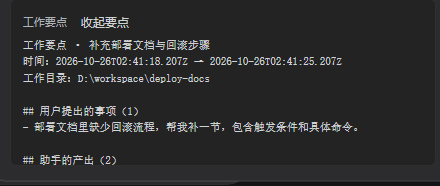
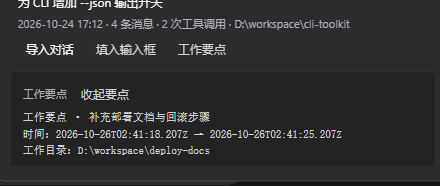
fix(ui): keep the panel directory line and rows intact on short windows; release 1.3.2

diff --git a/client/client.js b/client/client.js
@@ -165,7 +165,7 @@ if (!globalThis.__dshCodexHistoryClientExecuted) {
         zIndex: 1100,
         boxSizing: 'border-box',
         width: 'min(460px, calc(100vw - 24px))',
-        maxHeight: 'min(60vh, 520px)',
+        maxHeight: 'min(70vh, 560px)',
         display: 'flex',
         flexDirection: 'column',
         gap: '10px',
@@ -228,7 +228,9 @@ if (!globalThis.__dshCodexHistoryClientExecuted) {
         display: 'flex',
         flexDirection: 'column',
         gap: '2px',
-        flex: '1 1 auto',
+        // The list is the only part of the panel that may shrink; every other
+        // child keeps its natural height so nothing gets squeezed away.
+        flex: '1 1 0%',
         minHeight: 0,
       },
       item: {
@@ -239,6 +241,7 @@ if (!globalThis.__dshCodexHistoryClientExecuted) {
         borderRadius: 'var(--dsw-radius-sm, 6px)',
         background: 'transparent',
         border: 'none',
+        flexShrink: 0,
       },
       title: {
         color: 'var(--dsw-alias-label-primary, inherit)',
@@ -252,6 +255,7 @@ if (!globalThis.__dshCodexHistoryClientExecuted) {
         alignItems: 'center',
         gap: '6px',
         minWidth: 0,
+        flexShrink: 0,
       },
       badge: {
         flex: '0 0 auto',
@@ -269,13 +273,15 @@ if (!globalThis.__dshCodexHistoryClientExecuted) {
         overflow: 'hidden',
         textOverflow: 'ellipsis',
         whiteSpace: 'nowrap',
+        flexShrink: 0,
       },
       status: {
         color: 'var(--dsw-alias-label-tertiary, inherit)',
         fontSize: '11px',
+        flexShrink: 0,
       },
       worklog: {
-        maxHeight: '220px',
+        maxHeight: 'min(220px, 26vh)',
         overflowY: 'auto',
         display: 'flex',
         flexDirection: 'column',
@@ -284,6 +290,7 @@ if (!globalThis.__dshCodexHistoryClientExecuted) {
         borderRadius: 'var(--dsw-radius-sm, 6px)',
         background: 'var(--dsw-alias-bg-layer-1, transparent)',
         border: '1px solid var(--dsw-alias-border-l1, transparent)',
+        flexShrink: 0,
       },
       worklogText: {
         margin: 0,
@@ -293,7 +300,7 @@ if (!globalThis.__dshCodexHistoryClientExecuted) {
         whiteSpace: 'pre-wrap',
         wordBreak: 'break-word',
       },
-      error: { color: 'var(--dsw-alias-state-error-primary, #d33)', fontSize: '11px' },
+      error: { color: 'var(--dsw-alias-state-error-primary, #d33)', fontSize: '11px', flexShrink: 0 },
     }
 
     /** Hover and focus affordances the inline styles cannot express. */
@@ -488,6 +495,7 @@ if (!globalThis.__dshCodexHistoryClientExecuted) {
             'div',
             {
               style: styles.panel,
+              className: 'codex-history-panel',
               role: 'dialog',
               'aria-label': t('heading'),
               onClick: (event) => event.stopPropagation(),
@@ -561,7 +569,7 @@ if (!globalThis.__dshCodexHistoryClientExecuted) {
             ),
             h(
               'div',
-              { style: styles.list },
+              { style: styles.list, className: 'codex-history-list' },
               loading && h('div', { style: styles.status }, t('loading')),
               !loading && !available && h('div', { style: styles.error }, t('unavailable')),
               !loading && available && items.length === 0 && h('div', { style: styles.status }, t('empty')),
@@ -625,34 +633,34 @@ if (!globalThis.__dshCodexHistoryClientExecuted) {
                   ),
                 ),
               ),
-            ),
-            worklog
-              ? h(
-                  'div',
-                  { style: styles.worklog },
-                  h(
+              worklog
+                ? h(
                     'div',
-                    { style: styles.row },
-                    h('span', { style: styles.meta }, t('worklog')),
+                    { style: styles.worklog },
                     h(
-                      'button',
-                      {
-                        type: 'button',
-                        className: 'codex-history-ghost',
-                        style: styles.button,
-                        onClick: () => {
-                          setWorklog('')
-                          setWorklogFor('')
+                      'div',
+                      { style: styles.row },
+                      h('span', { style: styles.meta }, t('worklog')),
+                      h(
+                        'button',
+                        {
+                          type: 'button',
+                          className: 'codex-history-ghost',
+                          style: styles.button,
+                          onClick: () => {
+                            setWorklog('')
+                            setWorklogFor('')
+                          },
                         },
-                      },
-                      t('closeWorklog'),
+                        t('closeWorklog'),
+                      ),
                     ),
-                  ),
-                  h('pre', { style: styles.worklogText }, worklog),
-                )
-              : null,
-            status ? h('div', { style: styles.status }, status) : null,
-            error ? h('div', { style: styles.error }, error) : null,
+                    h('pre', { style: styles.worklogText }, worklog),
+                  )
+                : null,
+              status ? h('div', { style: styles.status }, status) : null,
+              error ? h('div', { style: styles.error }, error) : null,
+            ),
           )
         : null
 

diff --git a/index.js b/index.js
@@ -36,7 +36,7 @@ import {
 } from './lib/format.js'
 
 const API_BASE = '/api/codex-history'
-const VERSION = '1.3.1'
+const VERSION = '1.3.2'
 
 const DEFAULTS = {
   sessionsDir: undefined,

diff --git a/CHANGELOG.md b/CHANGELOG.md
@@ -4,6 +4,16 @@ All notable changes to this project are documented in this file.
 The format is based on [Keep a Changelog](https://keepachangelog.com/en/1.1.0/),
 and this project adheres to [Semantic Versioning](https://semver.org/spec/v2.0.0.html).
 
+## [1.3.2] - 2026-10-26
+
+### Fixed
+- 窗口较矮时 Web 面板把「目录:」一行挤成半截、会话行被压扁的问题：面板里除会话列表外的
+  每一项都固定为不收缩（`flexShrink: 0`），列表改为 `flex: 1 1 0%` 独占剩余空间并滚动。
+- 「工作要点」弹层移入会话列表内部，随列表一起滚动，不再把面板撑出容器。
+
+### Changed
+- 面板最大高度由 `min(60vh, 520px)` 放宽到 `min(70vh, 560px)`，矮窗口下也能看到完整会话行。
+
 ## [1.3.1] - 2026-10-26
 
 ### Fixed
